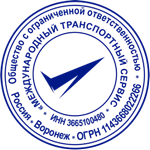
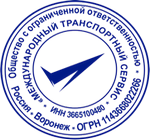
acts fixed

diff --git a/protected/components/ExportableGridBehavior.php b/protected/components/ExportableGridBehavior.php
@@ -98,6 +98,8 @@ class ExportableGridBehavior extends CBehavior
      */
     private function generateDisinfectCertificate($company, $dataList, &$zip)
     {
+        $files = 0;
+        $totalCount = 0;
         $clientService = 5;
         $cols = ['A','B','C','D','E','F','G','H','I','J','K'];
 
@@ -111,45 +113,48 @@ class ExportableGridBehavior extends CBehavior
         $cnt = 1;
         $startRow = 8;
 
-        $objPHPExcel = new PHPExcel();
-        $objWriter = PHPExcel_IOFactory::createWriter($objPHPExcel, 'Excel2007');
-
-        // Creating a workbook
-        $objPHPExcel->getProperties()->setCreator('Mtransservice');
-        $objPHPExcel->getProperties()->setTitle('Справка');
-        $objPHPExcel->getProperties()->setSubject('Справка');
-        $objPHPExcel->getProperties()->setDescription('');
-        $objPHPExcel->getProperties()->setCategory('');
-        $objPHPExcel->removeSheetByIndex(0);
-
-        //adding worksheet
-        $worksheet = new PHPExcel_Worksheet($objPHPExcel, 'справки');
-        $objPHPExcel->addSheet($worksheet);
-
-        $worksheet->getPageMargins()->setTop(0.3);
-        $worksheet->getPageMargins()->setLeft(0.5);
-        $worksheet->getPageMargins()->setRight(0.5);
-        $worksheet->getPageMargins()->setBottom(0.3);
-
-        $objPHPExcel->getDefaultStyle()->applyFromArray(array(
-            'font' => array(
-                'size' => 10,
-            )
-        ));
-
-        $worksheet->getColumnDimension('A')->setWidth(13);
-        $worksheet->getColumnDimension('B')->setWidth(15);
-        $worksheet->getColumnDimension('C')->setWidth(10);
-        $worksheet->getColumnDimension('D')->setWidth(10);
-        $worksheet->getColumnDimension('E')->setWidth(3);
-        $worksheet->getColumnDimension('F')->setWidth(3);
-        $worksheet->getColumnDimension('G')->setWidth(13);
-        $worksheet->getColumnDimension('H')->setWidth(15);
-        $worksheet->getColumnDimension('I')->setWidth(10);
-        $worksheet->getColumnDimension('J')->setWidth(10);
-        $worksheet->getColumnDimension('K')->setWidth(3);
-
         foreach ($dataList as $act) {
+            if (!$totalCount || !($totalCount % 80)) {
+                $files++;
+                $objPHPExcel = new PHPExcel();
+                $objWriter = PHPExcel_IOFactory::createWriter($objPHPExcel, 'Excel2007');
+
+                // Creating a workbook
+                $objPHPExcel->getProperties()->setCreator('Mtransservice');
+                $objPHPExcel->getProperties()->setTitle('Справка');
+                $objPHPExcel->getProperties()->setSubject('Справка');
+                $objPHPExcel->getProperties()->setDescription('');
+                $objPHPExcel->getProperties()->setCategory('');
+                $objPHPExcel->removeSheetByIndex(0);
+
+                //adding worksheet
+                $worksheet = new PHPExcel_Worksheet($objPHPExcel, 'справки');
+                $objPHPExcel->addSheet($worksheet);
+
+                $worksheet->getPageMargins()->setTop(0.3);
+                $worksheet->getPageMargins()->setLeft(0.5);
+                $worksheet->getPageMargins()->setRight(0.5);
+                $worksheet->getPageMargins()->setBottom(0.3);
+
+                $objPHPExcel->getDefaultStyle()->applyFromArray(array(
+                    'font' => array(
+                        'size' => 10,
+                    )
+                ));
+
+                $worksheet->getColumnDimension('A')->setWidth(13);
+                $worksheet->getColumnDimension('B')->setWidth(15);
+                $worksheet->getColumnDimension('C')->setWidth(10);
+                $worksheet->getColumnDimension('D')->setWidth(10);
+                $worksheet->getColumnDimension('E')->setWidth(3);
+                $worksheet->getColumnDimension('F')->setWidth(3);
+                $worksheet->getColumnDimension('G')->setWidth(13);
+                $worksheet->getColumnDimension('H')->setWidth(15);
+                $worksheet->getColumnDimension('I')->setWidth(10);
+                $worksheet->getColumnDimension('J')->setWidth(10);
+                $worksheet->getColumnDimension('K')->setWidth(3);
+            }
+
             $clientService = $act->client_service;
 
             $endDate = new \DateTime();
@@ -302,24 +307,27 @@ class ExportableGridBehavior extends CBehavior
             }
 
             $cnt++;
+            $totalCount++;
             if ($cnt == 5) {
                 $cnt = 0;
                 $startRow += 25;
             }
-        }
 
-        $path = "acts/" . date('m-Y', $this->time);
-        if (!is_dir($path)) {
-            mkdir($path, 0755, 1);
+            if (!($totalCount % 80) || $totalCount == count($dataList)) {
+                $path = "acts/" . date('m-Y', $this->time);
+                if (!is_dir($path)) {
+                    mkdir($path, 0755, 1);
+                }
+                if ($clientService == 9) {
+                    $filename = "Доп. справка $company->name от " . date('m-Y', $this->time) . "-$files.xlsx";
+                } else {
+                    $filename = "Справка $company->name от " . date('m-Y', $this->time) . "-$files.xlsx";
+                }
+                $fullFilename = str_replace(' ', '_', "$path/" . str_replace('"', '', "$filename"));
+                $objWriter->save($fullFilename);
+                if ($zip) $zip->addFile($fullFilename, iconv('utf-8', 'cp866', $filename));
+            }
         }
-        if ($clientService == 9) {
-            $filename = "Доп. справка $company->name от " . date('m-Y', $this->time) . ".xlsx";
-        } else {
-            $filename = "Справка $company->name от " . date('m-Y', $this->time) . ".xlsx";
-        }
-        $fullFilename = str_replace(' ', '_', "$path/" . str_replace('"', '', "$filename"));
-        $objWriter->save($fullFilename);
-        if ($zip) $zip->addFile($fullFilename, iconv('utf-8', 'cp866', $filename));
     }
 
     /**
@@ -1211,6 +1219,13 @@ class ExportableGridBehavior extends CBehavior
         $objDrawing->setName('Sample image');
         $objDrawing->setDescription('Sample image');
         $objDrawing->setPath('files/sign.png');
+        $objDrawing->setCoordinates("C$row");
+        $objDrawing->setWorksheet($companyWorkSheet);
+        //печать
+        $objDrawing = new PHPExcel_Worksheet_Drawing();
+        $objDrawing->setName('Sample image');
+        $objDrawing->setDescription('Sample image');
+        $objDrawing->setPath('files/post.png');
         $objDrawing->setCoordinates("C$row");
         $objDrawing->setWorksheet($companyWorkSheet);
 

diff --git a/protected/views/act/company/_act_list.php b/protected/views/act/company/_act_list.php
@@ -35,20 +35,28 @@ foreach($model->getClientsByType($model->companyType) as $actClient) {
             continue;
         }
         if($model->companyType == Company::DISINFECTION_TYPE) {
-            $filename = "Справка {$actClient->client->name} от " . date('m-Y', $time) . ".xlsx";
-            $fullFilename = str_replace(' ', '_', str_replace('"', '', "$path/$filename"));
-            if(file_exists($fullFilename)) {
-                echo CHtml::link($filename, '/' . $fullFilename) . '<br /><br />';
-            } else {
-                //echo "<span class='error'>$filename</span><br /><br />";
+            $files = 0;
+            while (true) {
+                $files++;
+                $filename = "Справка {$actClient->client->name} от " . date('m-Y', $time) . "-$files.xlsx";
+                $fullFilename = str_replace(' ', '_', str_replace('"', '', "$path/$filename"));
+                if(file_exists($fullFilename)) {
+                    echo CHtml::link($filename, '/' . $fullFilename) . '<br /><br />';
+                } else {
+                    break;
+                }
             }
 
-            $filename = "Доп. справка {$actClient->client->name} от " . date('m-Y', $time) . ".xlsx";
-            $fullFilename = str_replace(' ', '_', str_replace('"', '', "$path/$filename"));
-            if(file_exists($fullFilename)) {
-                echo CHtml::link($filename, '/' . $fullFilename) . '<br /><br />';
-            } else {
-                //echo "<span class='error'>$filename</span><br /><br />";
+            $files = 0;
+            while (true) {
+                $files++;
+                $filename = "Доп. справка {$actClient->client->name} от " . date('m-Y', $time) . "-$files.xlsx";
+                $fullFilename = str_replace(' ', '_', str_replace('"', '', "$path/$filename"));
+                if(file_exists($fullFilename)) {
+                    echo CHtml::link($filename, '/' . $fullFilename) . '<br /><br />';
+                } else {
+                    break;
+                }
             }
         }
         $filename = "Акт {$actClient->client->name} от " . date('m-Y', $time) . ".xls";

diff --git a/protected/components/StringNum.php b/protected/components/StringNum.php
@@ -95,18 +95,18 @@ class StringNum
         }
 
         $monthAr = array(
-            1 => array('Январь', 'Января', 'Январе'),
-            2 => array('Февраль', 'Февраля', 'Феврале'),
-            3 => array('Март', 'Марта', 'Марте'),
-            4 => array('Апрель', 'Апреля', 'Апреле'),
-            5 => array('Май', 'Мая', 'Мае'),
-            6 => array('Июнь', 'Июня', 'Июне'),
-            7 => array('Июль', 'Июля', 'Июле'),
-            8 => array('Август', 'Августа', 'Августе'),
-            9 => array('Сентябрь', 'Сентября', 'Сентябре'),
-            10=> array('Октябрь', 'Октября', 'Октябре'),
-            11=> array('Ноябрь', 'Ноября', 'Ноябре'),
-            12=> array('Декабрь', 'Декабря', 'Декабре')
+            1 => array('январь',    'января',   'январе'),
+            2 => array('февраль',   'февраля',  'феврале'),
+            3 => array('март',      'марта',    'марте'),
+            4 => array('апрель',    'апреля',   'апреле'),
+            5 => array('май',       'мая',      'мае'),
+            6 => array('июнь',      'июня',     'июне'),
+            7 => array('июль',      'июля',     'июле'),
+            8 => array('август',    'августа',  'августе'),
+            9 => array('сентябрь',  'сентября', 'сентябре'),
+            10=> array('октябрь',   'октября',  'октябре'),
+            11=> array('ноябрь',    'ноября',   'ноябре'),
+            12=> array('декабрь',   'декабря',  'декабре')
         );
 
         return $monthAr[(int)$num];
